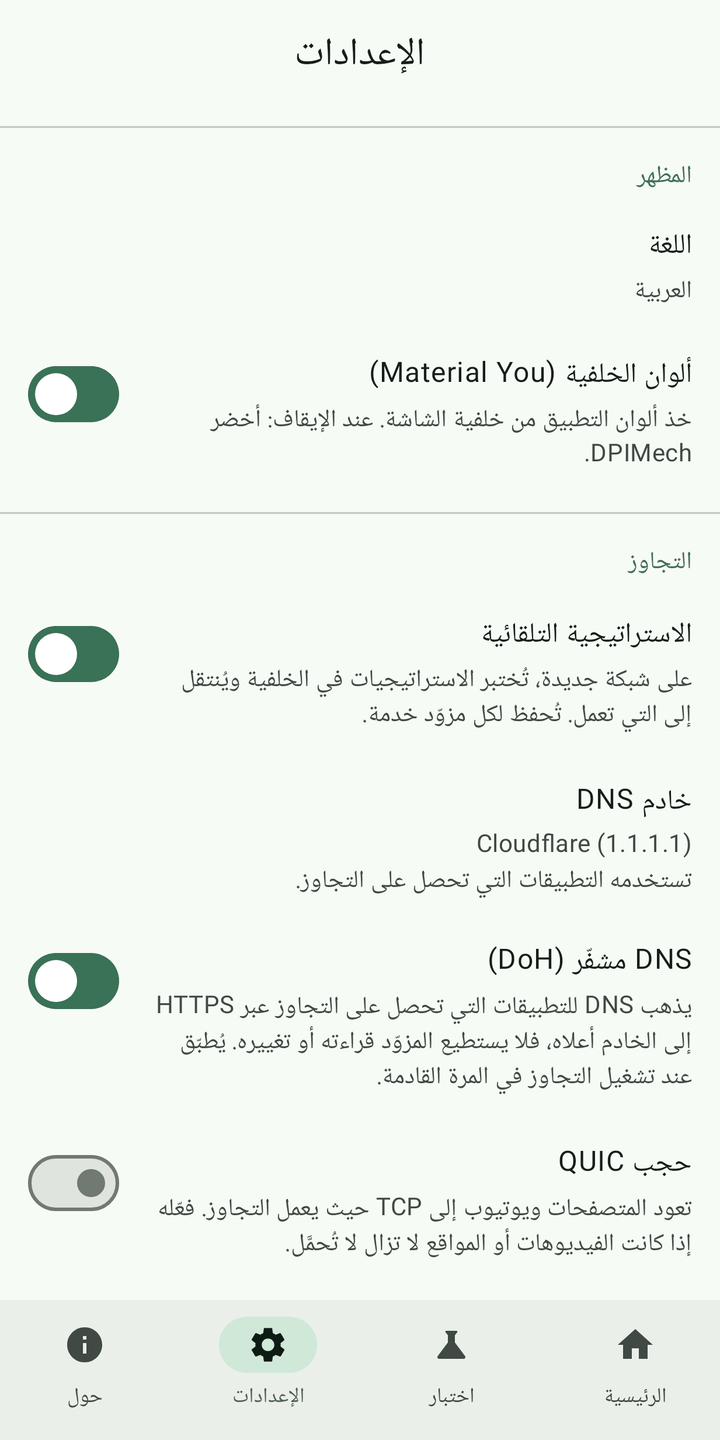
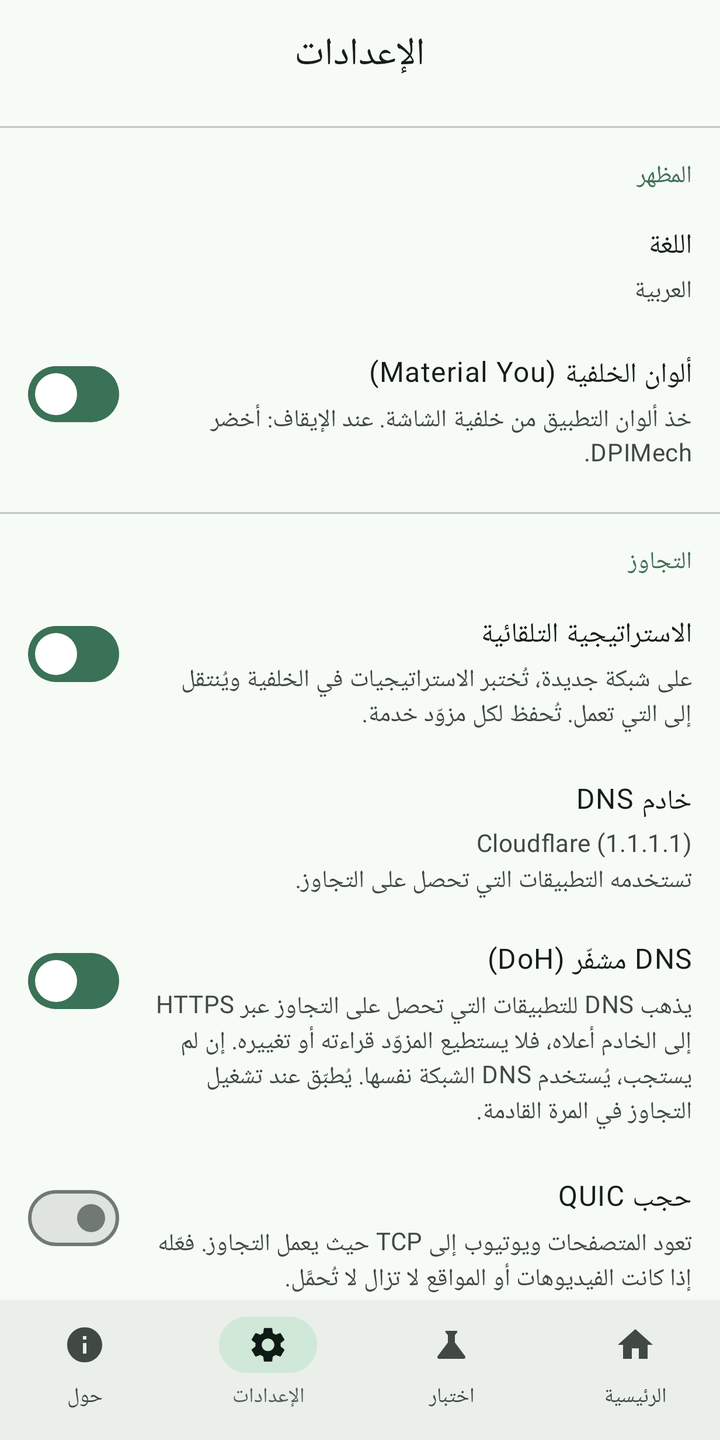
CI: Google's Maven Central mirror; store screenshots for 0.6.1

diff --git a/docs/PROGRESS.md b/docs/PROGRESS.md
@@ -62,6 +62,17 @@
 
 ## Work log
 
+### 2026-11-27 — Google's Maven Central mirror; store images again
+- Why: the Gradle retry alone was not enough: Maven Central kept answering 429 for three minutes
+  (CI run 45988770333).
+- Done: `tools/ci/maven-mirror.gradle.kts` points Gradle's Maven Central at Google's mirror
+  (`maven-central.storage-download.googleapis.com`); every workflow installs it into
+  `~/.gradle/init.d`, and Robolectric's downloads use it too. The repo's build files are unchanged,
+  so F-Droid builds as before. With it the screen tests ran in this container for the first time:
+  store screenshots rendered again; only Settings (4: the DoH hint with the fallback) and About
+  (5: 0.6.1) changed, so only those were kept (other files differed only in PNG encoding).
+- Verified: `:core:test` and `:app:testDebugUnitTest` locally through the mirror; CI.
+
 ### 2026-11-27 — Your own DoH server (#40); 0.6.1 prepared
 - Done (DECISIONS #34): "Your own DoH server…" in Settings → DNS with a checked address field;
   `AppSettings.isCustomDoh` / `customDoh`, `DohClient.urlFor` and `TunnelConfig.announcedDns` know

diff --git a/AGENTS.md b/AGENTS.md
@@ -55,6 +55,10 @@ Needs JDK 17+ (21 used), Android SDK with platform `android-37.0` and NDK `29.0.
 | Store images → `fastlane/` (after the renders) | `python3 tools/fastlane-images.py` (needs Pillow) |
 | Release APKs (signed with `DPIMECH_*` env, else unsigned) | `./gradlew :app:assembleRelease` — see `docs/RELEASING.md` |
 
+When Maven Central answers 429 (rate limit), add `--init-script tools/ci/maven-mirror.gradle.kts`
+(Google's mirror of it; CI installs it always) and set `ROBOLECTRIC_REPO` to the same mirror.
+`tools/fastlane-images.py` needs a Pillow with its C part (`pip install pillow` in a venv).
+
 Tests that need `$CIADPI`/`$HEV`/root are skipped when those are missing; CI runs all of them
 (`.github/workflows/ci.yml`) and fails if the end-to-end test was skipped.
 
